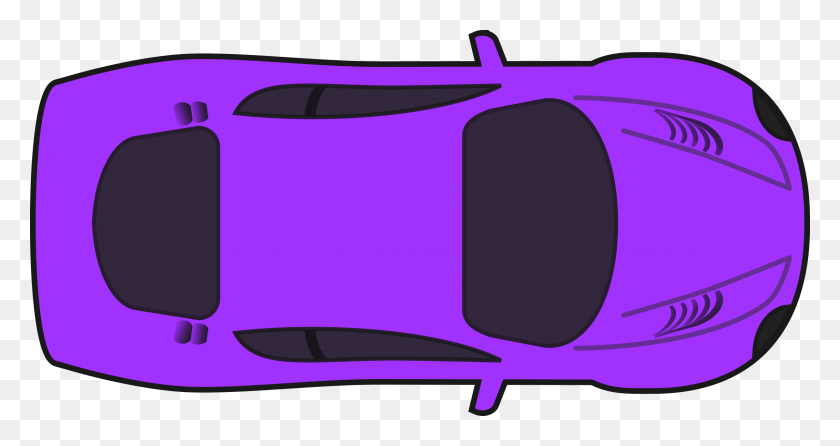
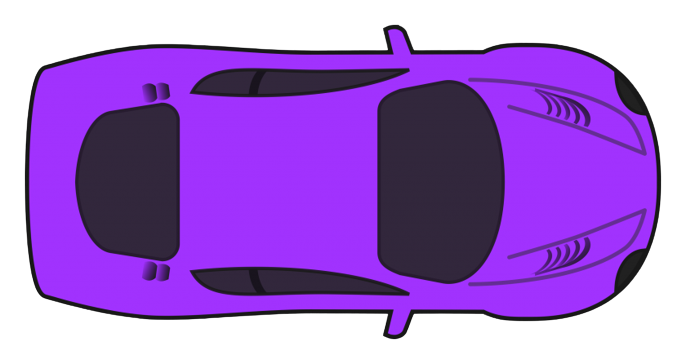
show imgs

diff --git a/env_raceAI/race.py b/env_raceAI/race.py
@@ -2,9 +2,14 @@ import pygame
 import time
 import math
 
-PROFIL = pygame.image.load("env_raceAI/imgs/profil.jpg")
+GRASS = pygame.image.load("env_raceAI/imgs/grass.jpg")
+BORDER = pygame.image.load("env_raceAI/imgs/border_1.png")
+TRACK = pygame.image.load("env_raceAI/imgs/track_1.png")
+FINISH = pygame.image.load("env_raceAI/imgs/finish.png")
+CAR_GREEN = pygame.image.load("env_raceAI/imgs/car_green.png")
+CAR_PURPLE = pygame.image.load("env_raceAI/imgs/car_purple.png")
 
-WIDTH, HEIGHT = PROFIL.get_width()/2, PROFIL.get_height()/4
+WIDTH, HEIGHT = GRASS.get_width()*1.5, GRASS.get_height()*1.5
 WIN = pygame.display.set_mode((WIDTH, HEIGHT))
 pygame.display.set_caption("Racing Game!")
 
@@ -15,7 +20,9 @@ clock = pygame.time.Clock()
 while run:
     clock.tick(60) #FPS
 
-    WIN.blit(PROFIL, (0, 0)) #show image 
+    WIN.blit(GRASS, (0, 0)) 
+    WIN.blit(TRACK, (0, 0))
+    WIN.blit(CAR_PURPLE, (0, 0))
 
     pygame.display.update()
 
